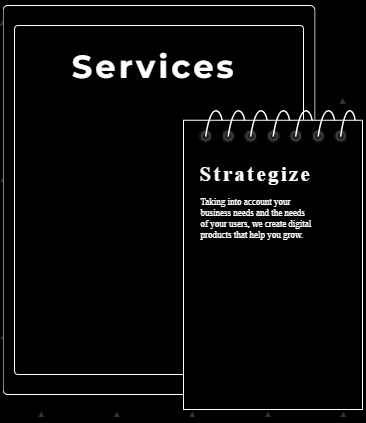
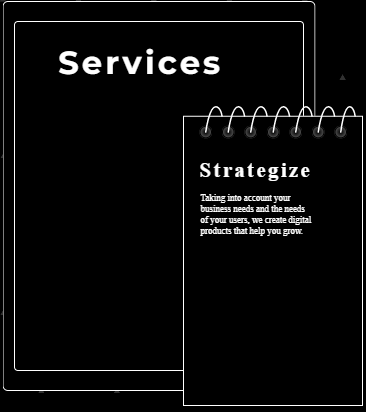
..

diff --git a/src/components/OurServices.js b/src/components/OurServices.js
@@ -7,13 +7,19 @@ import glass from "../assets/Magnifying_glass.svg";
 import gear from "../assets/Gear.svg";
 import stats from "../assets/Stats.svg";
 import groupTwo from "../assets/group_2.png";
+import group_3_larger from "../assets/group_3_larger.png";
 import groupThree from "../assets/group_3.png";
 
 const OurServices = ({ updateServices }) => {
 
   let sections = document.getElementsByTagName("section");
-
   let currentSectionIndex = React.useRef(0);
+  
+  const [windowWidth, setWindowWidth] = React.useState(window.innerWidth);
+
+  const tabletImg = windowWidth >= 1800 ? group_3_larger : groupTwo;
+  const tabletImgClass = windowWidth >= 1800 ? "tabletimg_prev_big" : "tabletimg_prev";
+  const mobileClass = windowWidth >= 1800 ? "mobileClass_big" : "mobileImg";
 
   React.useEffect(() => {
     document.addEventListener("wheel", (e) => {
@@ -41,7 +47,20 @@ const OurServices = ({ updateServices }) => {
         updateServices(currentSectionIndex.current)
       }
     });
-  }, [sections,updateServices])
+
+  }, [sections, updateServices])
+  React.useEffect(() => {
+    const handleWindowResize = () => {
+      setWindowWidth(window.innerWidth);
+    };
+
+    window.addEventListener('resize', handleWindowResize);
+
+    return () => {
+      window.removeEventListener('resize', handleWindowResize);
+    }
+  }, []);
+
   return (
     <div className="ourServices">
       <div className="content">
@@ -76,18 +95,24 @@ const OurServices = ({ updateServices }) => {
         <section className="blocksection page3" data-section="2">
           <div className="container">
             <div className="sections" >
-            <img
-                alt=""
-                className=" section_old"
-                src={groupTwo}
-                style={{ marginTop: "45px", marginLeft: "-19px"}}
-              />
-           
               <img
                 alt=""
-                className="animate__animated animate__zoomIn tabletimg_"
+                className={tabletImgClass}
+                src={tabletImg}
+                style={{}}
+              />
+              {/* <picture>
+                <source media="(min-width:1200px and max-width: 1400px)" srcSet={groupTwo} className="tabletimg_prev"/>
+                <source media="(min-width: 1500px and max-width: 2000px)" srcSet={group_3_larger}  />
+                <img src={group_3_larger} className="" alt="Chris standing up holding his daughter Elva" />
+              </picture> */}
+
+      
+              <img
+                alt=""
+                className={`${mobileClass}`}
                 src={mobile}
-              /> 
+              />
               {/* <div className="animate__animated animate__zoomIn smartimg">
                 <img
                   alt=""
@@ -112,15 +137,15 @@ const OurServices = ({ updateServices }) => {
         <section className="blocksection page4" data-section="3">
           <div className="container">
             <div className="sections" >
-            <img
+              <img
                 alt=""
                 className=" section_old"
                 src={groupThree}
-                style={{ marginTop: "45px", marginLeft: "-19px"}}
+                style={{ marginTop: "45px", marginLeft: "-19px" }}
               />
               <img
                 alt=""
-                className="animate__animated animate__zoomIn laptopimg_"
+                className="animate__animated animate__zoomIn laptopImg"
                 src={laptop}
               />
 

diff --git a/src/styles/main.css b/src/styles/main.css
@@ -252,31 +252,95 @@ section.active .tabletimg {
   animation: grow 2s linear forwards;
   opacity: 1;
 }
-section.active .tabletimg_ {
-  animation: zoom-in-zoom-in 2s linear forwards;
-  position: absolute;
-  left: 32.1%;
-  opacity: 1;
-  top: 40px;
-}
-section.active .laptopimg_ {
-  animation: zoom-in-zoom-in_2 2s linear forwards;
-  position: absolute;
-  left: 32.1%;
-  opacity: 1;
-  top: 40px;
-}
-section.active .section_old{
-  animation: zoom-in-zoom-out 2s linear forwards ;
+
+
+section.active .tabletimg_prev{
+  animation: tabletimg_prev 2s linear forwards ;
   opacity: 1;
   position: absolute;
   z-index: 99;
-  left: 60.1%;
+
   
 
 }
+section.active .tabletimg_prev_big{
+  animation: tabletimg_prev_big 2s linear forwards ;
+  opacity: 1;
+  position: absolute;
+  z-index: 99;
 
-@keyframes zoom-in-zoom-in_2 {
+}
+section.active .mobileImg {
+  animation: mobileImg 2s linear forwards;
+  position: absolute;
+  left: 32.1%;
+  opacity: 1;
+  top: 40px;
+}
+section.active .mobileClass_big {
+  animation: mobileClass_big 2s linear forwards;
+  position: absolute;
+  left: 32.1%;
+  opacity: 1;
+
+}
+section.active .laptopImg {
+  animation: laptopImg 2s linear forwards;
+  position: absolute;
+  left: 32.1%;
+  opacity: 1;
+  top: 40px;
+}
+
+section.active .title1 h1 {
+  font-size: 40px;
+  margin-top: 0;
+  letter-spacing: 4px;
+  font-weight: bold;
+  margin-left: 25px;
+}
+
+@keyframes tabletimg_prev {
+  0%,
+  20% {
+    transform: scale(1);
+    width: 366px;
+    left: 378px;
+    top: 49px;
+  
+    
+  }
+
+  75%,
+  100% {
+    transform: scale(0.5);
+    width: 22%;
+    left: 440px;
+    top:-8px
+  }
+}
+@keyframes tabletimg_prev_big {
+  0%,
+  20% {
+    transform: scale(1);
+    width: 643px;
+    left: 251px;
+    top: 36px;
+  
+    
+  }
+
+  75%,
+  100% {
+    transform: scale(0.5);
+    width: 34%;
+    left: 391px;
+    top: -46px;
+  }
+}
+
+
+@keyframes laptopImg {
   0%,
   20% {
     transform: scale(1);
@@ -293,26 +357,8 @@ section.active .section_old{
   }
 }
 
-@keyframes zoom-in-zoom-out {
-  0%,
-  20% {
-    transform: scale(1);
-    width: 364px;
-    left: 34.8%;
-    top: 0;
-  
-    
-  }
 
-  75%,
-  100% {
-    transform: scale(0.5);
-    width: 22%;
-    left: 40.1%;
-    top:-50px
-  }
-}
-@keyframes zoom-in-zoom-in {
+@keyframes mobileImg {
   0%,
   20% {
     transform: scale(1);
@@ -326,6 +372,26 @@ section.active .section_old{
     transform: scale(1);
     width: 22%;
     left: 38.1%;
+  }
+}
+
+@keyframes mobileClass_big {
+  0%,
+  20% {
+    transform: scale(1);
+    width: 600px;
+    opacity: 0;
+    left: 24.1%;
+    top:0
+  }
+
+  75%,
+  100% {
+    transform: scale(0.6) ;
+    width: 600px;
+    left: 24%;
+    opacity: 1;
+    top: -200px;
   }
 }
 
@@ -357,14 +423,19 @@ section.active .title1 {
   animation: grows 2s linear forwards;
   opacity: 1;
 }
-
-section.active .title1 h1 {
-  font-size: 40px;
-  margin-top: 0;
-  letter-spacing: 4px;
-  font-weight: bold;
-  margin-left: 40px;
+.two{
+  display: none;
 }
+
+/* @media(min-width: 1500px){
+  .two{
+       display: block;
+  }
+  .tabletimg_prev{
+    display: none;
+  }
+} */
+
 
 @keyframes grows {
   0%,

diff --git a/src/components/Main.js b/src/components/Main.js
@@ -29,24 +29,25 @@ const Main = () => {
     servicesViewRef = val;
   };
   const activeComponent = {
-    Info: <Info />,
+    "Info": <Info />,
     "Our Services": <OurServices updateServices={updateServices} />,
     "About Us": <About />,
-    Contact: <Contact />,
+    "Contact": <Contact />,
   };
   let pageArray = ["Info", "Our Services", "About Us", "Contact"];
 
   const changeSlider = () => {
     let elementAll = document.querySelectorAll(".blocksection");
-    if (state.sliderCount + 1 === pageArray.length) {
+    const newCount = state.sliderCount + 1;
+    if (newCount === pageArray.length) {
       setState((pre) => ({ ...pre, activeMenu: pageArray[0], sliderCount: 0 }));
     } else if (pageArray[state.sliderCount] === "Our Services") {
       if (elementAll.length - 1 === servicesViewRef) {
         elementAll[0].classList.add("active");
         setState((pre) => ({
           ...pre,
-          activeMenu: pageArray[pre.sliderCount],
-          sliderCount: pre.sliderCount++,
+          activeMenu: pageArray[newCount],
+          sliderCount: newCount,
         }));
         servicesViewRef = 1;
       } else {
@@ -60,20 +61,16 @@ const Main = () => {
         }
       }
     } else {
-      setState((pre) => ({
-        ...pre,
-        activeMenu: pageArray[pre.sliderCount],
-        sliderCount: pre.sliderCount++,
-      }));
+      setState((pre) => {
+        return {
+          ...pre,
+          activeMenu: pageArray[newCount],
+          sliderCount: newCount,
+        }
+      });
     }
   };
-
   useEffect(() => {
-    setState((pre) => ({
-      ...pre,
-      activeMenu: "Info",
-    }));
-
     setTimeout(() => {
       setState((pre) => ({
         ...pre,
